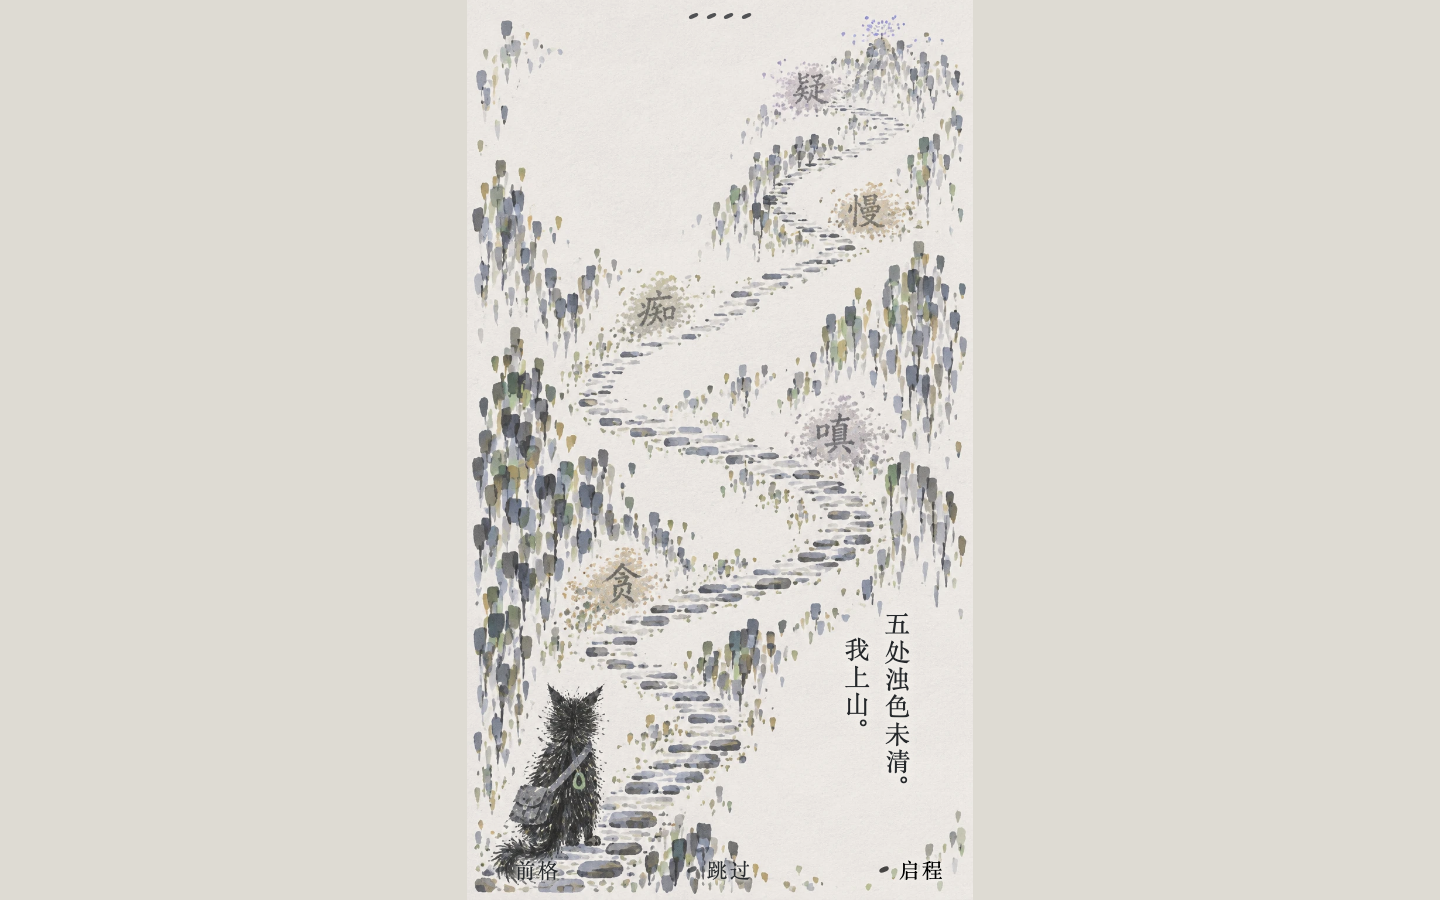
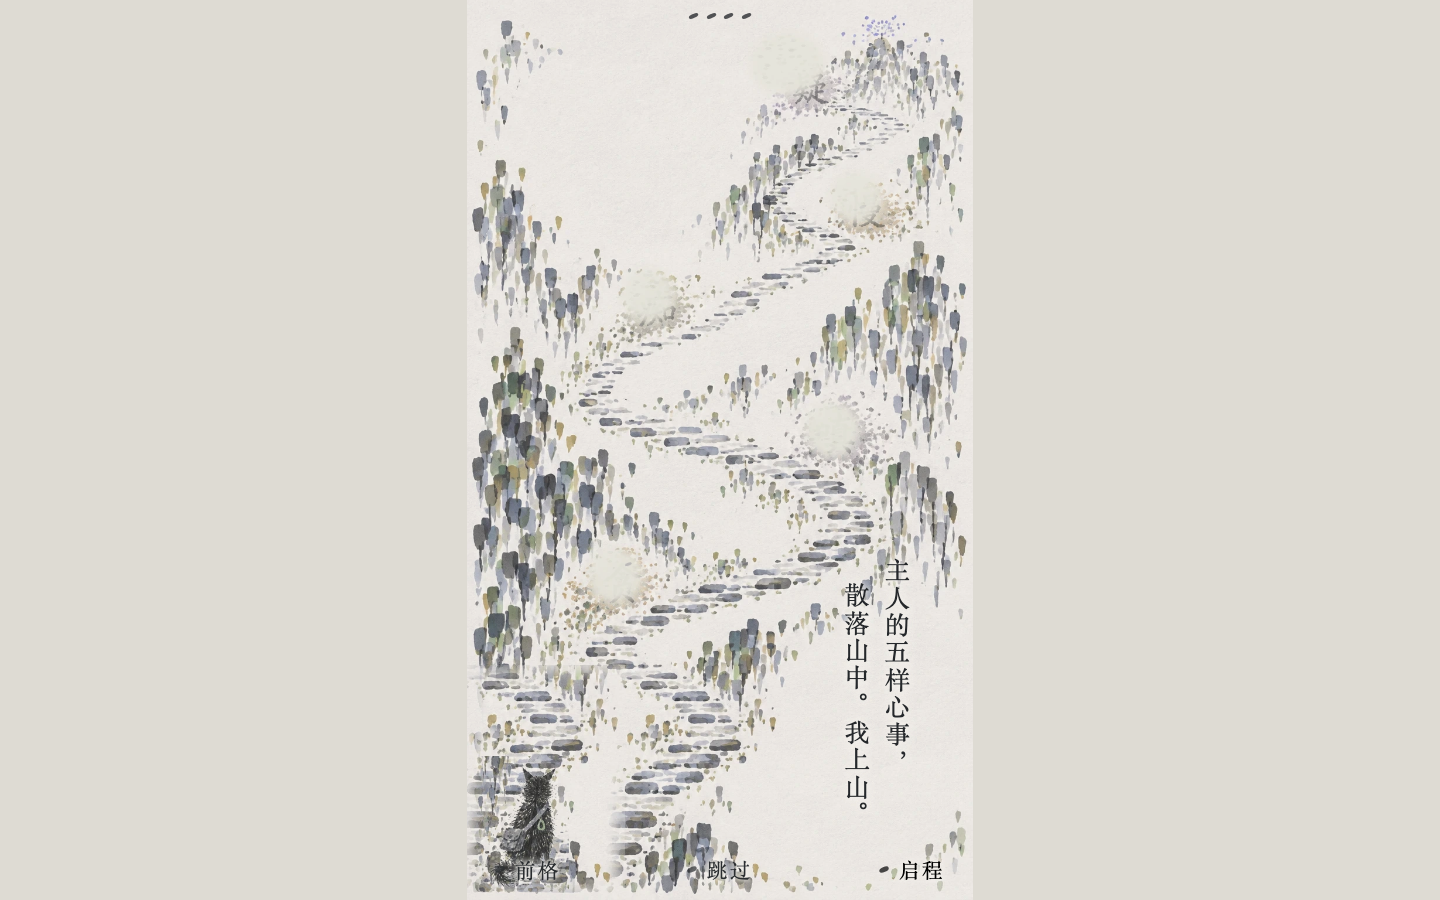
Refine opening art and route topology from review

diff --git a/app/src/art-reboot/journey.css b/app/src/art-reboot/journey.css
@@ -1,1 +1,1 @@
-.journey-shell{display:grid;place-items:center;min-height:100dvh;background:#dedbd3;color:#292c29;font-family:'Songti SC','STSong','Noto Serif CJK SC','SimSun',serif}.journey-stage{position:relative;overflow:hidden;container-type:size;width:min(100vw,calc(100dvh * 9 / 16));height:min(100dvh,calc(100vw * 16 / 9));background:#f4f2ed}.journey-stage button{font:inherit;color:inherit;cursor:pointer}.journey-stage button:focus-visible{outline:2px dotted #9b6747;outline-offset:3px}.journey-map-art{position:absolute;inset:0;width:100%;height:100%;object-fit:cover;opacity:.68;filter:grayscale(.35) saturate(.65)}.journey-map.is-restored .journey-map-art{filter:grayscale(0) saturate(1.05);opacity:.82}.journey-map-wash{position:absolute;inset:0;background:rgba(244,242,237,.16);pointer-events:none}.journey-heading{position:absolute;left:6%;top:4%;max-width:72%;z-index:2}.journey-heading>span{font-size:14px;letter-spacing:.12em;color:#6e7068}.journey-heading h2{margin:.5em 0 0;font-size:clamp(18px,3.3cqw,28px);font-weight:500;line-height:1.5}.journey-routes{position:absolute;inset:0;width:100%;height:100%;pointer-events:none}.journey-routes line{stroke:#6c716b;stroke-width:.45;stroke-dasharray:1.5 1.2;opacity:.55}.journey-routes line.is-restored{stroke:#718b62;stroke-dasharray:none;opacity:.9}.journey-node{position:absolute;z-index:3;transform:translate(-50%,-50%);display:flex;align-items:center;gap:5px;min-width:44px;min-height:44px;padding:0;border:0;background:transparent;white-space:nowrap;text-shadow:0 0 4px #f4f2ed,0 0 8px #f4f2ed}.journey-node i{display:block;width:9px;height:14px;border-radius:48%;background:#72766f;transform:rotate(-12deg)}.journey-node span{font-size:clamp(13px,2.2cqw,18px)}.journey-node:disabled{cursor:default;opacity:.38}.journey-node.is-selected{opacity:.82}.journey-node.is-active{opacity:1}.journey-node.is-selected i{background:#718b62}.journey-node.is-active i{background:#a5533d;opacity:.9}.journey-node.is-active span{font-weight:600}.journey-start{position:absolute;z-index:2;transform:translate(-50%,-50%);font-size:18px;font-weight:600;color:#343934}.journey-trail{position:absolute;left:6%;right:6%;bottom:4%;font-size:14px;line-height:1.7;color:#62675f}.journey-arrival{display:flex;flex-direction:column;align-items:center;justify-content:center}.journey-arrival-frame{width:100%;aspect-ratio:16/9;background:#eeeae2}.journey-arrival-frame video{display:block;width:100%;height:100%;object-fit:cover}.journey-arrival-caption{margin:5% 0 0;font-size:clamp(17px,3cqw,25px);letter-spacing:.1em}.journey-arrival-actions{position:absolute;left:0;right:0;bottom:6%;display:flex;justify-content:center;gap:28px}.journey-arrival-actions button{min-width:64px;min-height:44px;padding:0;border:0;border-bottom:1px dotted #85867d;background:transparent}.journey-ending-art{position:absolute;inset:0;width:100%;height:100%;object-fit:cover;opacity:.62;filter:saturate(.85)}.journey-ending-copy{position:absolute;left:8%;top:7%;z-index:2}.journey-ending-copy>span{font-size:14px;letter-spacing:.2em;color:#74766d}.journey-ending-copy h2{margin:.7em 0;font-size:clamp(28px,6cqw,48px);font-weight:500}.journey-ending-copy p{font-size:clamp(17px,3cqw,24px);line-height:2}.journey-ending-copy button{min-width:88px;min-height:48px;margin-top:24px;padding:0;border:0;border-bottom:2px solid #a5533d;background:transparent}.journey-ending-copy small{display:block;margin-top:32px;color:#77796f;font-size:13px}.journey-contact{position:absolute;left:66%;top:46%;z-index:1}.journey-contact i{position:absolute;width:7px;height:12px;border-radius:50%;background:#a8bce0;opacity:.72;transform:rotate(calc(var(--i)*30deg)) translateY(-42px);animation:journey-contact 3s steps(6,end) infinite alternate}.journey-contact i:nth-child(2n){background:#b9a6d5}.journey-contact i:nth-child(3n){width:5px;height:8px}@keyframes journey-contact{to{transform:rotate(calc(var(--i)*30deg)) translateY(-12px);opacity:.95}}@media (prefers-reduced-motion:reduce){.journey-stage *{animation:none!important;transition:none!important}}
+.journey-shell{display:grid;place-items:center;min-height:100dvh;background:#dedbd3;color:#292c29;font-family:'Songti SC','STSong','Noto Serif CJK SC','SimSun',serif}.journey-stage{position:relative;overflow:hidden;container-type:size;width:min(100vw,calc(100dvh * 9 / 16));height:min(100dvh,calc(100vw * 16 / 9));background:#f4f2ed}.journey-stage button{font:inherit;color:inherit;cursor:pointer}.journey-stage button:focus-visible{outline:2px dotted #9b6747;outline-offset:3px}.journey-map-art{position:absolute;inset:0;width:100%;height:100%;object-fit:cover;opacity:.68;filter:grayscale(.35) saturate(.65)}.journey-map.is-restored .journey-map-art{filter:grayscale(0) saturate(1.05);opacity:.82}.journey-map-wash{position:absolute;inset:0;background:rgba(244,242,237,.16);pointer-events:none}.journey-heading{position:absolute;left:6%;top:4%;max-width:72%;z-index:2}.journey-heading>span{font-size:14px;letter-spacing:.12em;color:#6e7068}.journey-heading h2{margin:.5em 0 0;font-size:clamp(18px,3.3cqw,28px);font-weight:500;line-height:1.5}.journey-routes{position:absolute;inset:0;width:100%;height:100%;pointer-events:none}.journey-routes path{fill:none;stroke:#6c716b;stroke-width:.45;stroke-dasharray:1.5 1.2;opacity:.55}.journey-routes path.is-restored{stroke:#718b62;stroke-dasharray:none;opacity:.9}.journey-node{position:absolute;z-index:3;transform:translate(-50%,-50%);display:flex;align-items:center;gap:5px;min-width:44px;min-height:44px;padding:0;border:0;background:transparent;white-space:nowrap;text-shadow:0 0 4px #f4f2ed,0 0 8px #f4f2ed}.journey-node i{display:block;width:20px;height:10px;border-radius:35%;background:#72766f;transform:rotate(-8deg)}.journey-node span{font-size:clamp(13px,2.2cqw,18px)}.journey-node:disabled{cursor:default;opacity:.3}.journey-node:disabled span{visibility:hidden}.journey-node.is-selected{opacity:.82}.journey-node.is-selected span,.journey-node.is-active span{visibility:visible}.journey-node.is-active{opacity:1}.journey-node.is-selected i{background:#718b62}.journey-node.is-active i{background:#a5533d;opacity:.9}.journey-node.is-active span{font-weight:600}.journey-start{position:absolute;z-index:2;transform:translate(-50%,-50%);font-size:18px;font-weight:600;color:#343934}.journey-trail{position:absolute;left:6%;right:6%;bottom:4%;font-size:14px;line-height:1.7;color:#62675f}.journey-arrival{display:flex;flex-direction:column;align-items:center;justify-content:center}.journey-arrival-frame{width:100%;aspect-ratio:16/9;background:#eeeae2}.journey-arrival-frame video{display:block;width:100%;height:100%;object-fit:cover}.journey-arrival-caption{margin:5% 0 0;font-size:clamp(17px,3cqw,25px);letter-spacing:.1em}.journey-arrival-actions{position:absolute;left:0;right:0;bottom:6%;display:flex;justify-content:center;gap:28px}.journey-arrival-actions button{min-width:64px;min-height:44px;padding:0;border:0;border-bottom:1px dotted #85867d;background:transparent}.journey-ending-art{position:absolute;inset:0;width:100%;height:100%;object-fit:cover;opacity:.62;filter:saturate(.85)}.journey-ending-copy{position:absolute;left:8%;top:7%;z-index:2}.journey-ending-copy>span{font-size:14px;letter-spacing:.2em;color:#74766d}.journey-ending-copy h2{margin:.7em 0;font-size:clamp(28px,6cqw,48px);font-weight:500}.journey-ending-copy p{font-size:clamp(17px,3cqw,24px);line-height:2}.journey-ending-copy button{min-width:88px;min-height:48px;margin-top:24px;padding:0;border:0;border-bottom:2px solid #a5533d;background:transparent}.journey-ending-copy small{display:block;margin-top:32px;color:#77796f;font-size:13px}.journey-contact{position:absolute;left:66%;top:46%;z-index:1}.journey-contact i{position:absolute;width:7px;height:12px;border-radius:50%;background:#a8bce0;opacity:.72;transform:rotate(calc(var(--i)*30deg)) translateY(-42px);animation:journey-contact 3s steps(6,end) infinite alternate}.journey-contact i:nth-child(2n){background:#b9a6d5}.journey-contact i:nth-child(3n){width:5px;height:8px}@keyframes journey-contact{to{transform:rotate(calc(var(--i)*30deg)) translateY(-12px);opacity:.95}}@media (prefers-reduced-motion:reduce){.journey-stage *{animation:none!important;transition:none!important}}

diff --git a/app/src/art-reboot/JourneyMap.tsx b/app/src/art-reboot/JourneyMap.tsx
@@ -6,13 +6,13 @@ type Props = { step: MapStep; path: string[]; onChoose: (id: string) => void; on
 const FIRST = ['creek', 'tree', 'cloud']
 const SECOND = ['lamp', 'steps']
 const NODES: Record<string, { name: string; x: number; y: number }> = {
-  start: { name: '入山', x: 22, y: 86 },
-  creek: { name: '溪边石阶', x: 18, y: 66 },
-  tree: { name: '古树月门', x: 47, y: 65 },
-  cloud: { name: '云外栈道', x: 76, y: 60 },
-  lamp: { name: '灯下回望', x: 31, y: 43 },
-  steps: { name: '山腰小径', x: 65, y: 41 },
-  chi: { name: '山腰古寺', x: 48, y: 24 },
+  start: { name: '入山', x: 20, y: 89 },
+  creek: { name: '溪边石阶', x: 30, y: 70 },
+  tree: { name: '古树月门', x: 46, y: 66 },
+  cloud: { name: '云外栈道', x: 65, y: 60 },
+  lamp: { name: '灯下回望', x: 42, y: 46 },
+  steps: { name: '山腰小径', x: 62, y: 43 },
+  chi: { name: '山腰古寺', x: 48, y: 28 },
   summit: { name: '两界交界', x: 80, y: 8 },
 }
 const COPY: Record<MapStep, string> = {
@@ -20,6 +20,20 @@ const COPY: Record<MapStep, string> = {
   second: '再选一处落脚。',
   chi: '山腰古寺到了，玉玦在响。',
   restored: '色彩沿着你来时的路，回到山里。',
+}
+const EDGE_PATHS: Record<string, string> = {
+  'start-creek': 'M20 89 L27 77 L30 70',
+  'start-tree': 'M20 89 L35 76 L46 66',
+  'start-cloud': 'M20 89 L47 76 L65 60',
+  'creek-lamp': 'M30 70 L35 57 L42 46',
+  'creek-steps': 'M30 70 L47 56 L62 43',
+  'tree-lamp': 'M46 66 L43 55 L42 46',
+  'tree-steps': 'M46 66 L55 54 L62 43',
+  'cloud-lamp': 'M65 60 L52 52 L42 46',
+  'cloud-steps': 'M65 60 L64 51 L62 43',
+  'lamp-chi': 'M42 46 L45 36 L48 28',
+  'steps-chi': 'M62 43 L55 35 L48 28',
+  'chi-summit': 'M48 28 L63 18 L80 8',
 }
 
 export default function JourneyMap({ step, path, onChoose, onChi, onEnding }: Props) {
@@ -36,7 +50,7 @@ export default function JourneyMap({ step, path, onChoose, onChi, onEnding }: Pr
   return (
     <main className="journey-shell">
       <section className={`journey-stage journey-map is-${step}`} data-screen="map" data-step={step} aria-label="卦山分支地图">
-        <img className="journey-map-art" src="./assets/art-reboot/fable/c4-scroll.webp" alt="游沿着墨点石径上山" />
+        <img className="journey-map-art" src="./assets/art-reboot/fable/a-mountain.webp" alt="游沿着墨点石径上山" />
         <div className="journey-map-wash" aria-hidden="true" />
         <header className="journey-heading">
           <span>卦山 · 你的路线</span>
@@ -44,9 +58,9 @@ export default function JourneyMap({ step, path, onChoose, onChi, onEnding }: Pr
         </header>
         <svg className="journey-routes" viewBox="0 0 100 100" preserveAspectRatio="none" aria-hidden="true">
           {edges.map(([from, to]) => {
-            const a = NODES[from], b = NODES[to]
             const restored = selected(from) && (selected(to) || active(to))
-            return <line key={`${from}-${to}`} className={restored ? 'is-restored' : ''} x1={a.x} y1={a.y} x2={b.x} y2={b.y} />
+            const d = EDGE_PATHS[`${from}-${to}`] || `M${NODES[from].x} ${NODES[from].y} L${NODES[to].x} ${NODES[to].y}`
+            return <path key={`${from}-${to}`} className={restored ? 'is-restored' : ''} d={d} />
           })}
         </svg>
         {Object.entries(NODES).map(([id, node]) => {
@@ -69,7 +83,7 @@ export default function JourneyMap({ step, path, onChoose, onChi, onEnding }: Pr
           )
         })}
         <div className="journey-trail" aria-live="polite">
-          {path.length === 0 ? '选路不增加数值，只改变你看见的山。' : path.map((id) => NODES[id].name).join(' → ')}
+          {path.length === 0 ? '选路不增加数值，只改变你看见的山。' : `已选 ${path.length} 处落脚，路线已记下。`}
         </div>
       </section>
     </main>

diff --git a/app/src/art-reboot/Opening.tsx b/app/src/art-reboot/Opening.tsx
@@ -18,7 +18,7 @@ const TEXT = {
   p1: ['卦山的颜色，', '正在一笔一笔掉下去。'],
   p2: ['寄往卦山的信，', '全都退了回来。'],
   p3: ['渡是我的主人。', '玉玦还在响——', '渡还在山上。'],
-  p4: ['五处浊色未清。', '我上山。'],
+  p4: ['主人的五样心事，', '散落山中。我上山。'],
 }
 
 // ① 退色米点：[x%, y%, 朝向deg]，自右向左排列，落在山体着墨处。
@@ -32,7 +32,7 @@ const P3_DOTS: [string, number, number][] = [
   ['#a9bfe6', -2.4, -1.6], ['#bba8da', 2.2, -1.9], ['#bba8da', -2.8, 1.2],
   ['#a9bfe6', 2.6, 1.5], ['#bba8da', 0, 2.6], ['#a9bfe6', 0.4, -2.8],
 ]
-// ④ 五处浊痕旁的漂移点：[x%, y%]（相对竖卷）
+// ④ 未显形墨晕旁的漂移点：[x%, y%]（相对竖卷）
 const P4_MARKS: [number, number][] = [[77, 23], [72, 37], [42, 31], [9, 52], [30, 63]]
 const P4_SUMMIT: [number, number][] = [[-1.6, -0.6], [0.3, -1.3], [1.8, -0.2], [-0.6, 0.9], [1.1, 1.2]]
 
@@ -137,7 +137,7 @@ export default function Opening({ initial = 'comic', onEnter }: Props) {
         {onScroll && (
           <div className="fable-scroll-wrap" data-panel="4">
             <div className={`fable-scroll ${settled ? 'is-settled' : ''}`} onAnimationEnd={onRiseEnd}>
-              <img className="fable-base" src={`${ART}/c4-scroll.webp`} alt="竖卷：游立在山脚，石径蜿蜒上行，贪、嗔、痴、慢、疑五处浊痕分布在不同高度，山顶有淡蓝紫的点" />
+              <img className="fable-base" src={`${ART}/a-mountain.webp`} alt="竖卷：游立在山脚，石径蜿蜒上行，几处未显形的墨晕散落在途中，山顶有淡蓝紫的点" />
               <div className="fable-fx" aria-hidden="true">
                 {P4_MARKS.map(([x, y], index) => (
                   <i key={index} className="p4-mark" style={vars({ left: `${x}%`, top: `${y}%`, '--i': index })} />
@@ -156,7 +156,7 @@ export default function Opening({ initial = 'comic', onEnter }: Props) {
             )}
             {isTitle && (
               <div className="fable-title">
-                <h1><span>空裂：</span><span>游渡</span></h1>
+                <h1><span>空裂：游渡</span></h1>
                 <button type="button" className="fable-seal" data-act="enter" onClick={onEnter} aria-label="入山">
                   <span>入山</span>
                 </button>

diff --git a/app/src/art-reboot/opening-calibration.css b/app/src/art-reboot/opening-calibration.css
@@ -11,8 +11,8 @@
   --p3-jade-x: 33%; --p3-jade-y: 76%;
   /* ④ 864×1536：左上 x12–50% y0–27% 与右下 x70–100% y68–100% 是留白；深色主体（游）在左下 */
   --p4-summit-x: 82%; --p4-summit-y: 3.5%;
-  --c4-left: 73%; --c4-top: 68%;
-  --title-left: 17%; --title-top: 3.5%;
+  --c4-left: 73%; --c4-top: 62%;
+  --title-left: 34%; --title-top: 3.5%;
   --seal-left: 71%; --seal-top: 74%;
 }
 

diff --git a/docs/FABLE_REVIEW_2026-11-27.md b/docs/FABLE_REVIEW_2026-11-27.md
@@ -1,0 +1,78 @@
+# 《空裂：游渡》美术与体验审查
+
+## 1. A 版最小修正
+
+**首页**
+- 去掉五个字，保留五团淡墨晕作为"山上有东西"的悬念。每通过一段路，对应的字才在墨晕里显形。
+- 标题冒号单独悬在第二列下方，像掉了一笔，建议改成细间隔点或并入字距。
+
+**五毒交代**
+- 放在开场漫画末格或首次进地图时，只用一句话，例如："空裂那夜，主人心里放不下的五样东西散落山中，各成一段路。"
+- 之后每到一段只显示一个字和一句猫的旁白，不要一次列全。
+
+**猫比例**
+- 现在猫约占屏高五分之一，身宽超过石径，所以像巨猫。建议缩到现尺寸的 60% 左右，坐在单块石阶上，身宽不超过 1.5 块石板，尾巴压住石阶边缘作为接地。
+- 我没看到漫画第三格，只能给统一规则：全作玉玦外径固定为猫头宽的 1/3 到 1/2。
+- 想突出玉玦不要放大猫，让玦的绿色成为画面里唯一的高饱和点即可。
+
+**地图落点**
+- 「灯下回望」「山腰小径」两个红点在石径外的空白处，直线连线还横穿山体。把节点坐标吸附到实际石板上，分支放在石径的拐弯处。
+- 连线改成沿石径走的淡墨虚线或猫爪印。
+- 节点不用圆点，改成把那块石板提亮或加深。
+- 未解锁地名和左下角重复的「古树月门」一并隐藏，减少悬浮文字。
+
+## 2. B 版：成立，但要加三条约束
+
+"裂前改物、裂后重连"的因果是成立的。风险是两张图来回切，然后试遍所有热点。建议加这三条：
+
+1. **先给愿望再给过去。** 每关开场先演出"现在哪里断了"（主人听不见、过不去、看不见），玩家带着明确目标去裂前。
+2. **只用猫的动词。** 猫只会拨、推、叼、踩。每关可互动物不超过四个，没有背包，也不做物品组合。
+3. **用玉玦当窗，不切场景。** 拖动玉玦，环内显示另一个时间，改动后的结果在同一个画面里立刻演出来。因果链要像 Ghost Trick 那样完整播放一遍。
+
+**第一关 · 树拱下的铃**（用 chi-scene）
+- 断处：主人走过亭前，听不见猫叫，铃绳烂断在地上。
+1. 用玦看裂前：铃绳垂在滴水的枝下。
+2. 猫把绳拨到檐下的钩子上，雨水不再淋到它。
+3. 回到现在：绳子完好，猫一拽，铃响，主人第一次回头。
+
+**第二关 · 石像与种子**（用 statue）
+- 断处：石像散成一地碎点，玉玦的穗子挂在高处够不着。
+1. 裂前，猫把种荚拨进石座的裂缝。
+2. 猫把供碗推到檐下的滴水处，水顺着碗沿流进裂缝。
+3. 现在：画面中枝条一笔一笔放射长出，托住石像。猫沿枝爬上去，叼下穗子。
+
+**第三关 · 两界之灯**（用 you-1 和 yin）
+- 断处：主人提着灯站在交界处，却望向反方向。
+1. 裂前夜里，猫踩了墨碟，在灯罩纸上留下爪印。
+2. 现在，猫把灯拨正，带爪印的光投向里世界。
+3. 玩家转动玉玦，让缺口对准光。光穿过缺口，主人看见猫的剪影。
+
+第三关的落点是：裂痕合不上，但两边能看见彼此。这个结尾比"修复世界"更贴合这个 IP。
+
+## 3. 八张原画的分工与底线
+
+| 原画 | 承担的角色 | 不能破坏的要素 |
+|---|---|---|
+| chi-scene | 第一关主场景，表世界的基调 | 淡、疏、大留白；不能加深描边 |
+| concept-collated | 环境笔触库（树丛、石径、小猫群）；A 版地图已同源 | 竖向短笔的节奏和纸白 |
+| concept-poster | 里世界或空裂瞬间的过场 | 蓝紫密笔的压迫感；不要放 UI 字 |
+| fen | 情绪化身或心结的形象，只在演出时出现 | 绒毛的柔边和发光的眼睛；禁止硬抠图 |
+| statue | 第二关的石像和树 | 放射状的点阵结构；不要填实 |
+| yin | 里世界的"注视"，用于提示和转场 | 墨点之间的空隙和黄绿色的眼睛 |
+| you-1 | 游的标准立绘、终幕剪影 | 外放的细毛笔触，这是它的气场 |
+| you-2 | 近景和情感特写 | 铅笔的颗粒感和松散的边缘 |
+
+**有限动画的做法**
+- **动笔触，不动整张图。** 原画本来就是由点和短笔组成的，所以空裂可以做成笔触散开，重连做成笔触聚拢，植物生长做成逐笔出现。
+- **猫只做小动作。** 眨眼、耳朵、尾尖，再加毛边 2 到 3 帧的手绘抖动，按 8 到 12 帧每秒的抽帧播放。
+- **分层要少。** 最多三层视差，镜头只做慢推。
+- **融进纸面。** 所有图层用正片叠底压在同一张纸纹上。禁止白边、投影、弹性缩放和匀速平移，这几样是"贴纸感"和"PPT 感"的主要来源。
+
+## 4. 替代方向：一玦窥两界
+
+如果测试时玩家弄不清"过去"和"现在"，就把时间轴换成同一时刻的表世界和里世界：
+- 玉玦环内显示里世界，物件在那里呈现为笔触形态。
+- 猫在里世界拨动一处，表世界的对应物当场变化。
+- 因果是即时的，而且在同一个画面里，更适合轻度玩家。
+
+上面三关可以原样移植，只需把"裂前"改成"里侧"。它不增加任何系统，还直接用上了已经保留的表里世界设定。建议先做第一关的两种版本，对比测试后再决定。

diff --git a/docs/ART_REBOOT.md b/docs/ART_REBOOT.md
@@ -2,6 +2,14 @@
 
 > 当前版本完成“痴”的 0→1 垂直切片：漫画、短 CG、分支地图、痴关卡、复色地图、结尾与重开。其他四关只保留讨论，不实现、不生成美术，也没有可点击的假入口。
 
+## 2026-11-27 · A 版反馈修正
+
+- 首页不再提前显示五毒汉字，保留未显形墨晕；第④格改为“主人的五样心事，散落山中。我上山。”，先交代联系再逐段理解。
+- 使用 Pillow 对既有候选 `c4-scroll.webp` 做局部微调生成 `a-mountain.webp`：隐去文字、缩小游至约 60%、补齐石径；没有调用新的生图模型，原始候选不修改。
+- 地图节点吸附石板，连线按石径折线行走，未解锁地名隐藏，已选路线保留。标题与第④格说明重新通过留白实测。
+- 修正后重新跑完整桌面与 375px 流程：**153/153 通过**，控制台错误与失败资源均为 0。
+- Fable 的一次审查与费用记录见 `docs/FABLE_REVIEW_2026-11-27.md` 和对应 usage JSON。
+
 ## 预览与边界
 
 - 公开 playable：**https://biaowww.github.io/konglie-youdu-preview/**。独立静态预览仓库，电脑、服务器或 SSH 隧道重启都不影响入口。

diff --git a/app/public/assets/art-reboot/fable/README.md b/app/public/assets/art-reboot/fable/README.md
@@ -3,4 +3,5 @@ Fable 阶段资产目录：四格漫画与开始界面的 WebP，由 import_asse
 - c1-mountain.webp ← fable-slice/c1-mountain.png（第①格，1536×864）
 - c2-window.webp ← fable-slice/c2-window.png（第②格，864×1536）
 - c3-jade.webp ← fable-slice/c3-jade.png（第③格，1024×1024）
-- c4-scroll.webp ← fable-v1/05-opening.png（第④格竖卷与开始界面，864×1536）
+- c4-scroll.webp ← fable-v1/05-opening.png（原始候选，保留作历史参考）
+- a-mountain.webp ← c4-scroll.webp 的局部微调：隐去五毒汉字、缩小游并补齐石径，用于第④格、开始界面与分支地图
